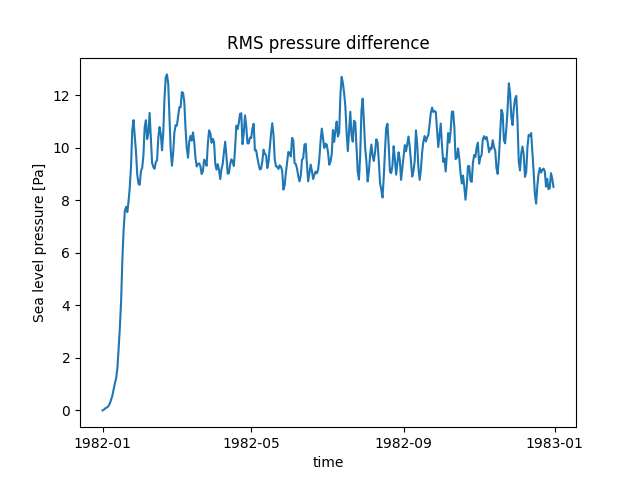
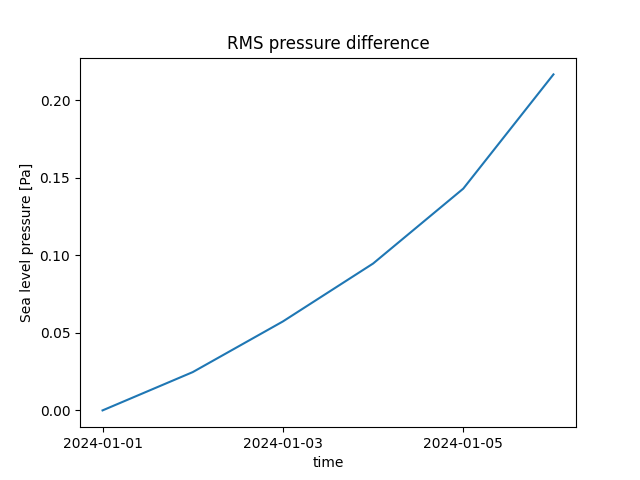
Various changes for 2024/25 I3D

diff --git a/examples/plot_total_carbon.py b/examples/plot_total_carbon.py
@@ -1,0 +1,65 @@
+#!/usr/bin/env python3
+# -*- coding: utf-8 -*-
+"""
+Created on Wed Oct  2 17:36:19 2024
+
+@author: tetts_ta167
+Plot the discolved inorganic, disolved organinc and total dissolved carbon in the ocean. 
+Values are all converted to Pg in each model layer.
+"""
+
+import xarray
+import matplotlib.pyplot as plt
+import pathlib
+
+tot=dict() # where we store the totals
+# read in an ocean file.
+file = pathlib.Path('/work/ta167/ta167/tetts_ta167/cesm/archive/SSP585_example/ocn/hist/SSP585_example.pop.h.2024.nc')
+ds= xarray.open_dataset(file)
+z = ds.z_t/100 # convert to m
+
+# wts are converted from cm^3 to m^3
+wts = ds.TAREA*ds.dz/1e6
+# and to convert to g multiplied by 12.01e-3 as Units are *I think* mmol C per m^3
+mass_c = 12.0e-3/1e15 # conversion for mmol C to petagrams C
+total_dic = ds.DIC.weighted(wts).sum(['nlat','nlon'])*mass_c # Disolved inorganic carbon. 
+total_doc =ds.DOC.weighted(wts).sum(['nlat','nlon'])*mass_c
+total_dic = total_dic.assign_coords(z_t=z) # overwrite the cm corrds with meter coords
+total_doc = total_doc.assign_coords(z_t=z) # overwrite the cm corrds with meter coords
+total_dc = total_dic+total_doc
+tot['DIC']=float(total_dic.sum())
+tot['DOC']=float(total_doc.sum())
+tot['total_ocean_carbon']=float(total_dc.sum())
+fig,ax = plt.subplots(nrows=1,ncols=1,num='Ocean_carbon',layout='constrained',clear=True)
+total_dic.plot(y='z_t',yincrease=False,label=f'DIC {total_dic.sum():5.0f} Pg',ax=ax)
+total_doc.plot(y='z_t',yincrease=False,label=f'DOC  {total_doc.sum():5.0f} Pg',ax=ax)
+total_dc.plot(y='z_t',yincrease=False,label=f'DC  {total_dc.sum():5.0f} Pg',ax=ax)
+ax.set_ylabel('Depth (m)')
+ax.legend()
+ax.set_title(f'Total Carbon (Pg)')
+ax.set_xlabel('Pg Carbon')
+fig.show()
+## then get the land carbon.
+# In the h4 files land is 'packed' -- only land units are shown
+# so we need to convert the area to that which do by selection
+# and then weight by landunit
+
+
+land_file = pathlib.Path('/work/ta167/ta167/tetts_ta167/cesm/archive/SSP585_example/lnd/hist/SSP585_example.clm2.h4.2025-01-01-00000.nc')
+ds_land= xarray.open_dataset(land_file)
+total_carbon = 0.0
+area = ds_land.area.fillna(0.0)*1e6
+lon = ds_land.land1d_lon
+lat = ds_land.land1d_lat
+wt = area.sel(lon=lon,lat=lat,method='nearest',tolerance=1e-3) 
+
+for var in ['TOTLITC','TOTSOMC','TOTVEGC']:
+    # convert to total pG. Scale by area in km2 * 1e6/1e15 (units are gC/m^2)
+    total_carbon += ds_land[var]
+    tot[var]=float(ds_land[var].weighted(wt).sum(['landunit']))/1e15 
+
+tot['total_land_carbon']=float(total_carbon.weighted(wt).sum('landunit')/1e15)
+for key,value in tot.items():
+    print(f'{key}: {value:5.0f} PgC')
+
+

diff --git a/extras/comp_mean_temp.py b/extras/comp_mean_temp.py
@@ -1,0 +1,42 @@
+# make a plot of temperatures from CESM cases.
+# Will also plot carbon...
+
+import xarray
+import numpy as np
+import matplotlib.pyplot as plt
+import pathlib
+
+# get the cases
+file='TREFHT.nc'
+vars = ['TREFHT','SO2_SRF','SFCO2']
+dir_path = pathlib.Path('/work/ta167/ta167/tetts_ta167/extract_data')
+fig,axs = plt.subplots(nrows=1,ncols=len(vars),clear=True,
+                           layout='constrained',figsize=(8,6),num='cesm_ts')
+
+
+for var,ax in zip(vars,axs.flatten()):
+    noso2_files=list(pathlib.Path().\
+                     glob(f'noso2_*/*_{var}.nc'))
+    ssp585_files=list(dir_path.glob(f'SSP585_example_[0-9]_{var}.nc'))
+    noso2_files=list(dir_path.glob(f'SSP585_noso2_[0-9]_{var}.nc'))
+    ds_noso2=xarray.open_mfdataset(noso2_files,combine='nested',
+                                   concat_dim='ensemble')
+    ds_ssp585=xarray.open_mfdataset(ssp585_files,combine='nested',
+                                    concat_dim='ensemble')
+    wts = np.cos(np.deg2rad(ds_noso2.lat))
+    ts_noso2=ds_noso2[var].weighted(wts).mean(['lon','lat']).resample(time='YS').mean().load()
+    ts_ssp585=ds_ssp585[var].weighted(wts).mean(['lon','lat']).resample(time='YS').mean().load()
+    if var in ['SO2']:
+        ts_noso2=ts_noso2.isel(lev=-1)# bottom level
+        ts_ssp585=ts_ssp585.isel(lev=-1)# bottom level
+
+    ts_noso2.plot.line(ax=ax,x='time',linewidth=2,label='NoSO2')
+    ts_ssp585.plot.line(ax=ax,x='time',linestyle='dashed',linewidth=2,label='SSP585')
+    ax.set_title(f'{var}')
+fig.show()
+fig.savefig('results.png')
+
+
+print(noso2_files)
+
+

diff --git a/examples/plot_pressure_2.py b/examples/plot_pressure_2.py
@@ -5,14 +5,15 @@ import numpy as np # numpy
 import cartopy.crs as ccrs # cartopy projections
 
 xarray.set_options(keep_attrs=True) # keep attributes when doing arithmetic. 
-base_dir="/work/ta116/shared/users/tetts_ta/cesm/archive/"
-file=base_dir+"FHIST_1982_2014_OSTIA/atm/hist/FHIST_1982_2014_OSTIA.cam.h1.1982-01-01-00000.nc"
-file2=base_dir+"FHIST_1982_2014_OSTIA_a/atm/hist/FHIST_1982_2014_OSTIA_a.cam.h1.1982-01-01-00000.nc"
+base_dir="/work/ta167/ta167/tetts_ta167/cesm/archive/" 
+file=base_dir+"SSP585_example/atm/hist/SSP585_example.cam.h1.2024-01-01-00000.nc"
+file2=base_dir+"SSP585_case_a/atm/hist/SSP585_case_a.cam.h1.2024-01-01-00000.nc"
+
 ds1=xarray.open_dataset(file) # daily data -- open => only have metadata
 ds2=xarray.open_dataset(file2) # daily data -- open => only have metadata
 
 levels = np.arange(940,1038.,8) # levels for plotting. 2x normal pressure diffs
-time_index = [0,9] # 1st day and 9th day
+time_index = [0,9] # 1st day and 10th day
 dataArray = xarray.concat([ds1.PSL,ds2.PSL],dim='ensemble')
 # facet plot.
 facet = (dataArray.isel(time=time_index)/100.).plot(

diff --git a/examples/plot_pressure_3.py b/examples/plot_pressure_3.py
@@ -6,9 +6,9 @@ import cartopy.crs as ccrs # cartopy projections
 import pathlib
 
 xarray.set_options(keep_attrs=True) # keep attributes when doing arithmetic. 
-base_dir=pathlib.Path("/work/ta116/shared/users/tetts_ta/cesm/archive/")
-files1=sorted((base_dir/"FHIST_1982_2014_OSTIA/atm/hist/").glob("FHIST_1982_2014_OSTIA.cam.h1.198*-01-01-00000.nc"))
-files2=sorted((base_dir/"FHIST_1982_2014_OSTIA_a/atm/hist/").glob("FHIST_1982_2014_OSTIA_a.cam.h1.198*-01-01-00000.nc"))
+base_dir=pathlib.Path("/work/ta167/ta167/tetts_ta167/cesm/archive/")
+files1=sorted((base_dir/"SSP585_example/atm/hist/").glob("SSP585_example.cam.h1.2024*.nc"))
+files2=sorted((base_dir/"SSP585_case_a/atm/hist/").glob("SSP585_case_a.cam.h1.2024*.nc"))
 # show open_mfdataset -- multiple files
 ds1=xarray.open_mfdataset(files1) # daily data -- open => only have metadata
 ds2=xarray.open_mfdataset(files2) # daily data -- open => only have metadata

diff --git a/examples/plot_pressure.py b/examples/plot_pressure.py
@@ -6,7 +6,7 @@ import cartopy.crs as ccrs # cartopy projections
 
 xarray.set_options(keep_attrs=True) # keep attributes when doing arithmetic. 
 
-file="/work/ta116/shared/users/tetts_ta/cesm/archive/FHIST_1982_2014_OSTIA/atm/hist/FHIST_1982_2014_OSTIA.cam.h1.1982-01-01-00000.nc"
+file="/work/ta167/ta167/tetts_ta167/cesm/archive/SSP585_example/atm/hist/SSP585_example.cam.h1.2024-01-01-00000.nc"
 ds=xarray.open_dataset(file) # daily data -- open => only have metadata
 
 
